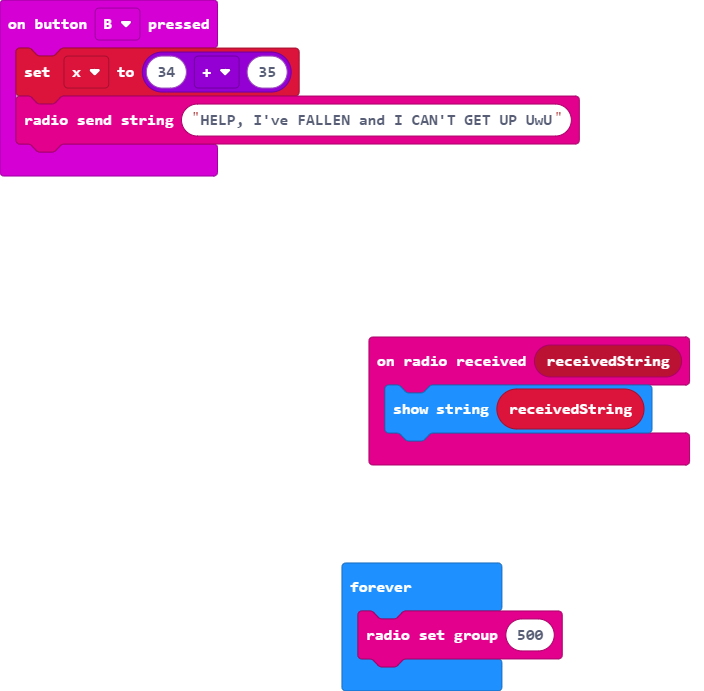
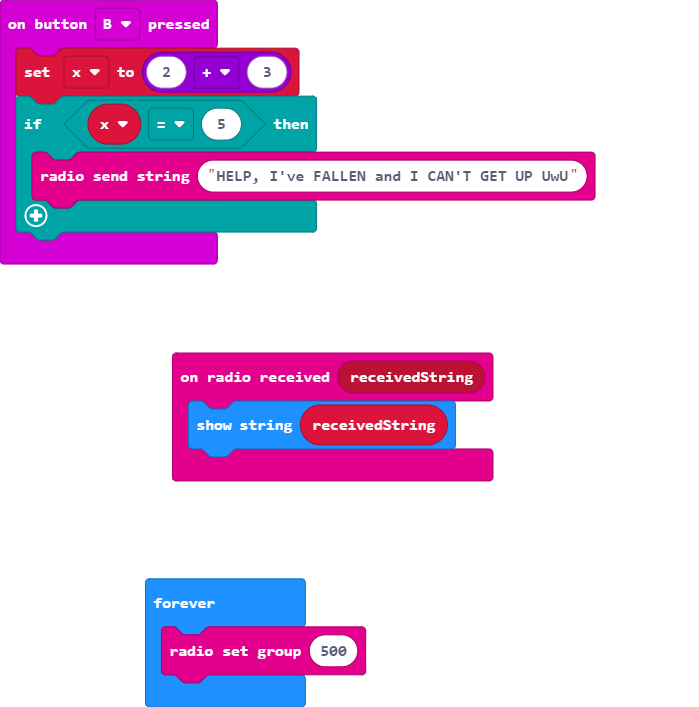
Update main.blocks, main.ts

diff --git a/main.ts b/main.ts
@@ -3,8 +3,10 @@ radio.onReceivedString(function (receivedString) {
     basic.showString(receivedString)
 })
 input.onButtonPressed(Button.B, function () {
-    x = 34 + 35
-    radio.sendString("HELP, I've FALLEN and I CAN'T GET UP UwU")
+    x = 2 + 3
+    if (x == 5) {
+        radio.sendString("HELP, I've FALLEN and I CAN'T GET UP UwU")
+    }
 })
 basic.forever(function () {
     radio.setGroup(500)
